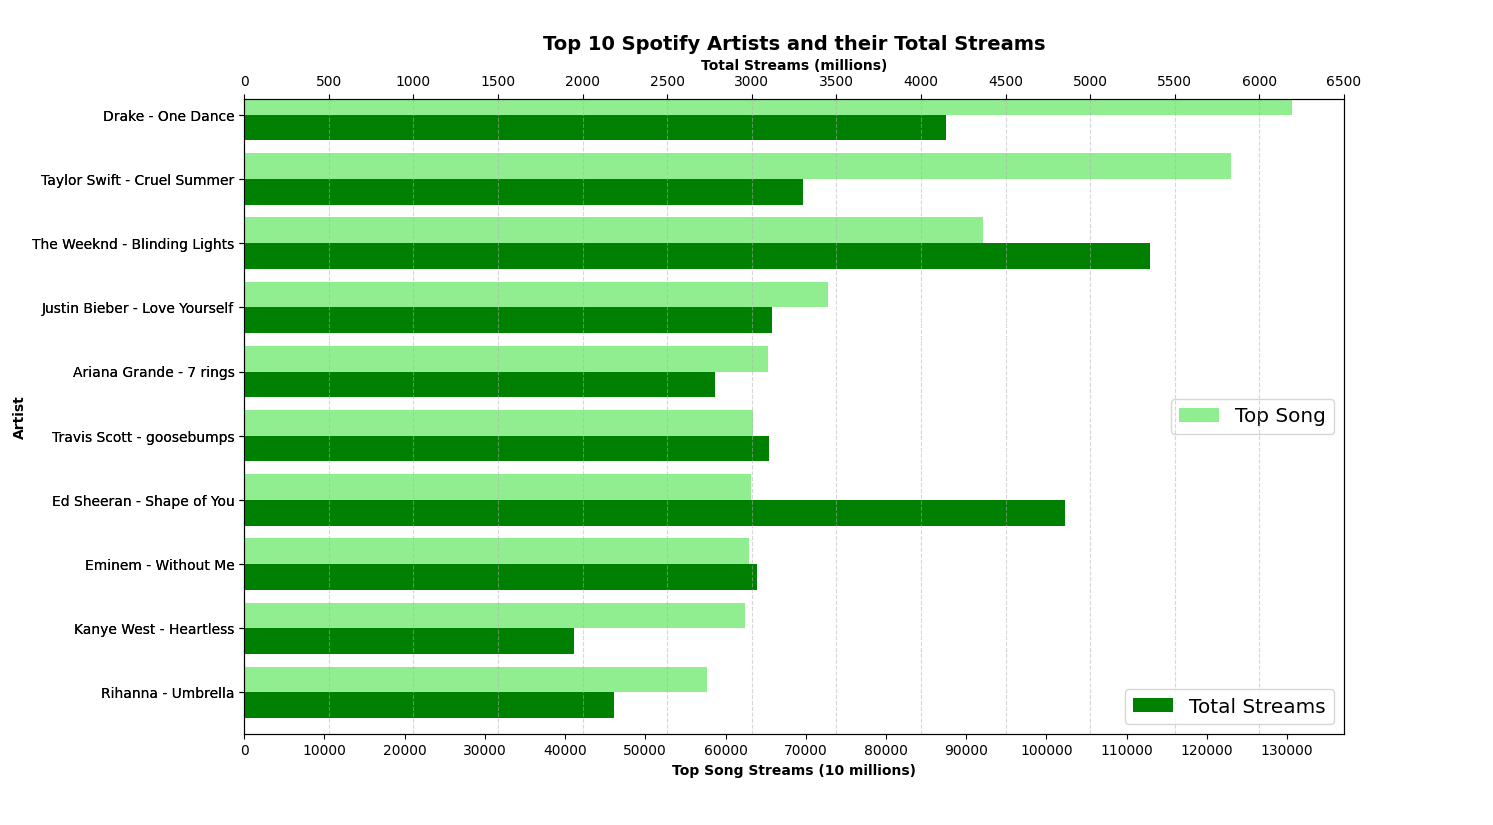
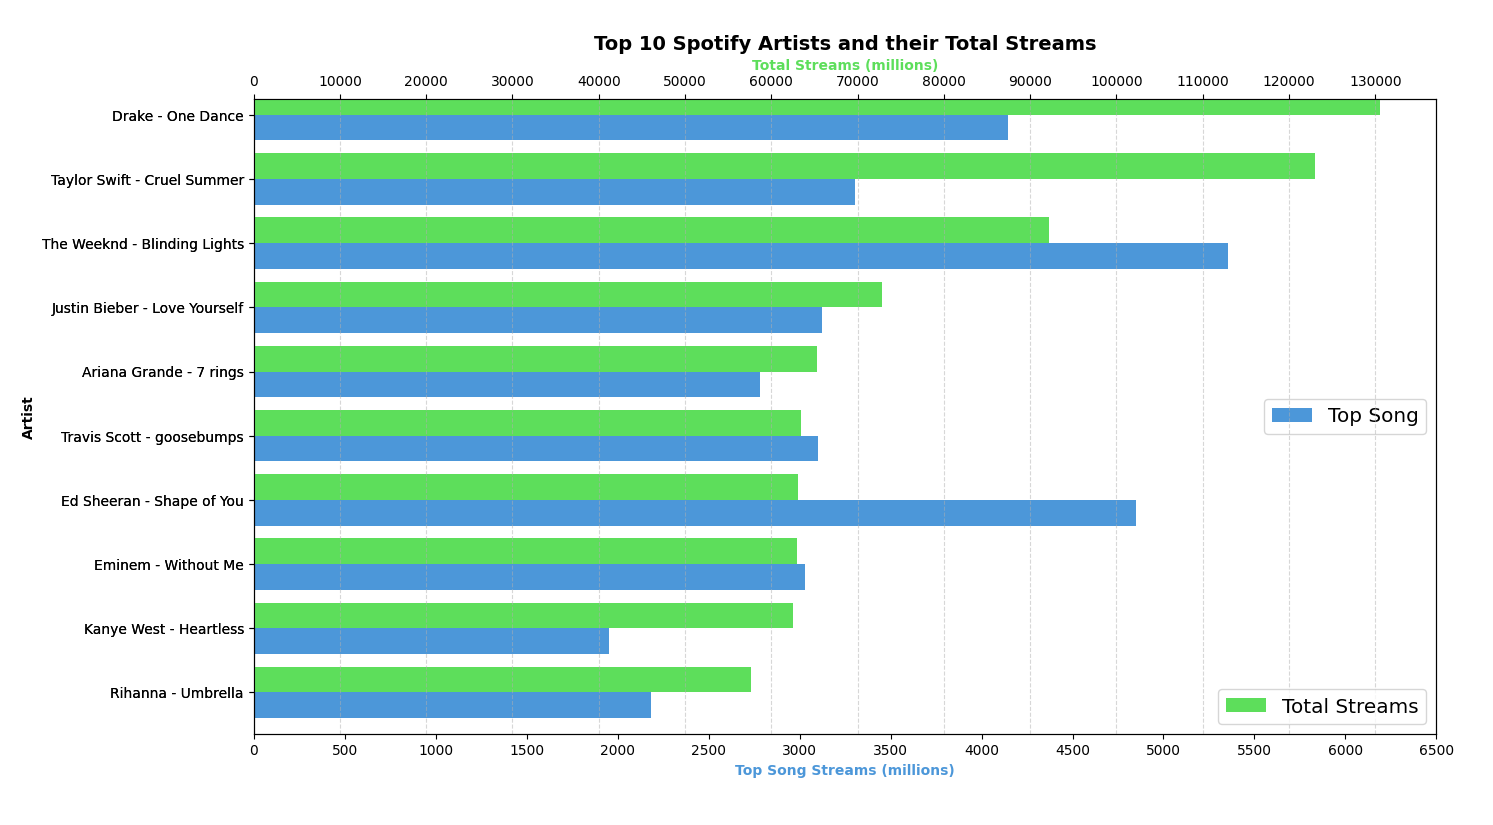
Word count outputs

diff --git a/Python_scripts/Outputs_scripts/word_count_scatter_graph_bar_graph.py b/Python_scripts/Outputs_scripts/word_count_scatter_graph_bar_graph.py
@@ -1,0 +1,68 @@
+#Making a scatter graph comparing the total word count and unique word count of each song
+#import libraries
+import numpy as np
+import pandas as pd
+import matplotlib.pyplot as plt
+import sqlite3
+
+#Open connection to database
+
+with sqlite3.connect('song_lyrics.db') as connection:
+    cursor = connection.cursor()
+    
+    #for each song, get the total word count, unique word count, and artist name
+    unique_count_query = '''
+    SELECT frequency 
+    FROM lyrics
+    WHERE lyric_id = ?;
+    '''
+    artist_query = '''
+    SELECT artist, artist_id
+    FROM song;
+    '''
+    word_count_df = pd.DataFrame((cursor.execute(artist_query)).fetchall())
+    word_count = []
+    unique_word_count = []
+
+    for number in word_count_df[1]:
+        word = pd.DataFrame(cursor.execute(unique_count_query, (number,)).fetchall())
+        word_count.append(sum(word[0]))
+        unique_word_count.append(len(word))
+
+word_count_df['total count'] = word_count
+word_count_df['unique count'] = unique_word_count
+        
+#We can now maka a scattergraph using this information
+fig = plt.figure()
+ax = fig.add_subplot()
+plt.scatter(word_count,unique_word_count, color = '#5dde5b', s = 100)
+#label each point (Kanye West needs different positioning so not to cause overlap)
+for i, txt in enumerate(word_count_df[0]):
+    if txt == 'Kanye West':
+        ax.annotate(txt, (word_count[i] -45,unique_word_count[i]+0.8), fontweight = 'bold')
+    else:
+        ax.annotate(txt, (word_count[i] +0.8,unique_word_count[i]+0.8), fontweight = 'bold')
+
+#add title and axis labels
+plt.title('Total Word Count and Unique Word Count', fontsize = 14, fontweight = 'bold')
+plt.xticks(np.arange(250,800, 25))
+plt.yticks(np.arange(50,350,25))
+plt.xlabel('Total Word Count')
+plt.ylabel('Unique Word Count')
+plt.grid(linestyle = '--', alpha = 0.5)
+
+
+plt.show()
+
+
+#next make a bar chart showing for each artist the percentage of words they used that were unique
+percentage = []
+for i,txt in enumerate(word_count_df[0]):
+    percentage.append((unique_word_count[i]/word_count[i])*100)
+
+plt.bar(word_count_df[0], percentage, color = '#4c97d9')
+plt.title('Unique words as a Percentage of Total Words', fontsize = 14, fontweight = 'bold')
+plt.xlabel('Artist', fontweight = 'bold')
+plt.ylabel('Percentage of Words That Are Unique', fontweight = 'bold')
+plt.grid(linestyle = '--', alpha = 0.5, axis = 'y')
+plt.show()

diff --git a/Python_scripts/Outputs_scripts/top_artists_streams_graph.py b/Python_scripts/Outputs_scripts/top_artists_streams_graph.py
@@ -21,17 +21,17 @@ top_artists.sort_values('total_streams', ascending = True, inplace=True)
 fig = plt.figure()
 ax = fig.add_subplot()
 ax2 = ax.twiny()
-top_artists.total_streams.plot(kind = 'barh',color = 'lightgreen',ax = ax, position = 0, width = 0.4)
-top_artists.song_streams.plot(kind = 'barh', color = 'green', ax = ax2, position = 1, width = 0.4)
+top_artists.total_streams.plot(kind = 'barh',color = '#5dde5b',ax = ax2, position = 0, width = 0.4)
+top_artists.song_streams.plot(kind = 'barh', color = '#4c97d9', ax = ax, position = 1, width = 0.4)
 
 #add labels, title, gridlines, legends, and set ticks
-ax.set_xlabel('Top Song Streams (10 millions)', fontweight = 'bold')
-ax2.set_xlabel('Total Streams (millions)', fontweight = 'bold')
+ax.set_xlabel('Top Song Streams (millions)', fontweight = 'bold', color = '#4c97d9')
+ax2.set_xlabel('Total Streams (millions)', fontweight = 'bold', color = '#5dde5b')
 plt.ylabel('Artist', fontweight = 'bold')
 
 ax.set_yticks(ticks= range(0,10), labels= top_artists['Artist and Song'], minor=False)
-ax.set_xticks(np.arange(0,140000,10000))
-ax2.set_xticks(np.arange(0,7000, 500))
+ax2.set_xticks(np.arange(0,140000,10000))
+ax.set_xticks(np.arange(0,7000, 500))
 
 plt.title('Top 10 Spotify Artists and their Total Streams', color = 'black', fontsize = 14, fontweight = 'bold')
 plt.grid(linestyle = '--', alpha = 0.5, axis = 'x')
